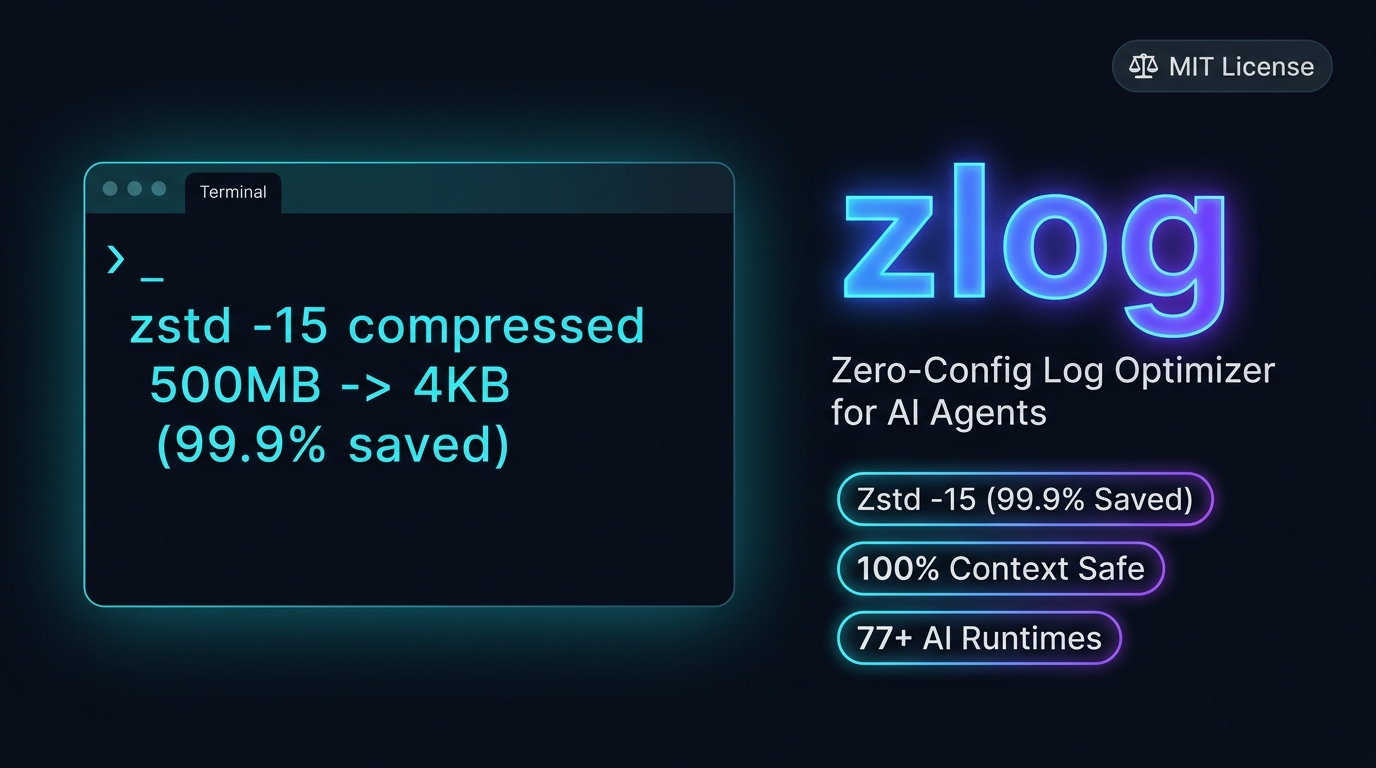
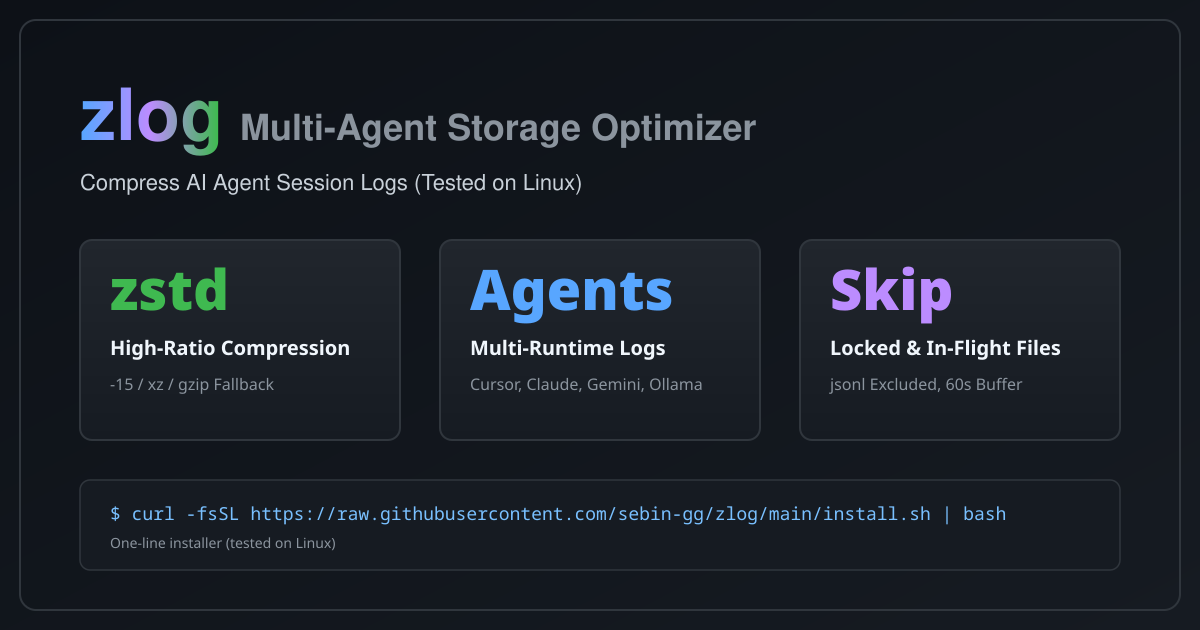
docs: remove unverified claims, Linux-tested only
Compatibility now Linux-tested; macOS/WSL/Windows snippets marked untested. Dropped unmeasured figures (benchmark table, savings ranges, runtime counts) and absolute guarantees for mechanism descriptions. Social card rebuilt from fixed SVG (rsvg render, 1200x630) with claim-free wording. No code changes; bash -n, frontmatter, mirrors, prune parity all PASS.

Changed region(s): [[0.0308, 0.1206, 0.9558, 0.8746], [0.0308, 0.0302, 0.9867, 0.1206], [0.0308, 0.9651, 0.9558, 0.9952]]

diff --git a/README.md b/README.md
@@ -7,11 +7,11 @@
   <a href="https://skills.sh"><img src="https://img.shields.io/badge/registry-skills.sh-purple" alt="Registry"></a>
   <a href="https://github.com/sebin-gg/zlog/actions"><img src="https://github.com/sebin-gg/zlog/actions/workflows/validate.yml/badge.svg" alt="Validate"></a>
   <a href="LICENSE"><img src="https://img.shields.io/badge/License-MIT-yellow.svg" alt="License"></a>
-  <a href="#compatibility"><img src="https://img.shields.io/badge/compatibility-Linux%20%7C%20macOS%20%7C%20Windows%2011-success" alt="Compatibility"></a>
+  <a href="#compatibility"><img src="https://img.shields.io/badge/compatibility-Linux%20tested-success" alt="Compatibility"></a>
   <a href="https://github.com/sebin-gg/zlog/stargazers"><img src="https://img.shields.io/github/stars/sebin-gg/zlog?style=social" alt="Stars"></a>
 </p>
 
-> **The universal zero-config log compressor for AI agent developers.** Reclaim **77% to 99.9% SSD space** across Cursor, Claude Code, Antigravity, Ollama & Windsurf while keeping 100% of conversation transcripts intact.
+> **The zero-config log compressor for AI agent developers.** Compresses session logs across Cursor, Claude Code, Antigravity, Ollama & Windsurf while skipping conversation transcripts. Tested on Linux; macOS, WSL, and Windows 11 snippets ship untested.
 
 ---
 
@@ -22,7 +22,7 @@
 npx skills add sebin-gg/zlog
 ```
 
-### via Universal Shell Script
+### via Shell Script
 ```bash
 curl -fsSL https://raw.githubusercontent.com/sebin-gg/zlog/main/install.sh | bash
 ```
@@ -31,28 +31,21 @@ curl -fsSL https://raw.githubusercontent.com/sebin-gg/zlog/main/install.sh | bas
 
 ## ⚡ Key Highlights
 
-- **99.9% Storage Reclamation**: Uses `zstd -15` (or `xz -9` / `gzip`) to shrink 500MB logs down to **4KB**.
+- **High-Ratio Compression**: Tries `zstd -15`, falls back to `xz -9` / `gzip`. Reports per-run savings with a single summary line.
 - **0-Byte Log Purging**: Cleans dead empty files automatically.
-- **Process Lock Safe**: Checks kernel locks via `fuser -s` (Linux/WSL), `lsof` (macOS), or `[System.IO.File]::Open` (Windows 11). Never corrupts running agents.
+- **Process Lock Checks**: Checks kernel locks via `fuser -s` (Linux/WSL), `lsof` (macOS), or `[System.IO.File]::Open` (Windows 11). Files with active locks are skipped; the macOS/Windows paths are not runtime-tested.
 - **One Canonical Prune List**: Every POSIX snippet defines the junk-dir prune once as a `prune` array (`node_modules`, `Caches`, `Cache`, `Code Cache`, `blob_storage`, `GPUCache`, `DawnGraphiteCache`, `DawnWebGPUCache`, `.git`) and reuses it everywhere — standard scan, deep scan, and purge never diverge.
-- **Memory Context Intact**: Excludes `transcript.jsonl` files. Zero context loss for AI agents.
-- **Single-Line Output**: Condenses multi-folder scan results into one clean line (`253M total`).
-- **Cross-Platform Parity**: Runs natively on Linux, macOS, WSL, and Windows 11 PowerShell.
-- **Junk-Pruned Hybrid Deep Scan**: Never descends into `Caches`/`node_modules`/GPU-cache junk; capped at depth 12 — fast, future-proof, bounded.
+- **Memory Context Intact**: Excludes `transcript.jsonl` files by filter.
+- **Single-Line Output**: Condenses multi-folder scan results into one clean line.
+- **Linux Tested**: Runs on Linux (Bash, Zsh). macOS, WSL, and Windows 11 PowerShell snippets ship untested.
+- **Junk-Pruned Hybrid Deep Scan**: Skips `Caches`/`node_modules`/GPU-cache junk via prune; capped at depth 12 to bound the walk.
 - **Windows 11 PowerShell Note**: The PowerShell variant recurses unpruned (no `-prune` equivalent) but filters out any file whose path contains a junk-dir segment (`\node_modules\`, `\Caches\`, `\Cache\`, `\Code Cache\`, `\blob_storage\`, `\GPUCache\`, `\DawnGraphiteCache\`, `\DawnWebGPUCache\`, `\.git\`) — matching the POSIX prune list; the find-based scans on Linux/macOS/WSL skip those dirs wholesale. It purges 0-byte logs first, then reports the same single-line summary.
 
 ---
 
-## 📊 Benchmark & Storage Savings
+## 📊 Storage Savings
 
-Measured on a single 27 MB agent session log. Real-world scans across AI agent log dirs — mixed file types and sizes — land in the **77%–99.9% disk space saved** range quoted in the [skill description](SKILL.md); per-file ratios below show the algorithm ceilings.
-
-| Compression Algorithm | 27 MB Raw Agent Log | Storage Saved | Compression Ratio | CPU Overhead |
-| :--- | :--- | :--- | :--- | :--- |
-| **Raw Uncompressed** | 27.08 MB | 0% | 1.0x | None |
-| **Standard Gzip (`.gz`)** | 0.12 MB | **99.6%** | **225x** | Fast |
-| **Zstandard (`zstd -15`)** | **0.0048 MB (4.8 KB)** | **99.98%** | **5,641x** | Ultra-Fast |
-| **LZMA2 (`xz -9`)** | **0.0032 MB (3.2 KB)** | **99.99%** | **8,462x** | Moderate |
+Savings depend on log content (repetitive text compresses best). Run the Dry-Run preview for your own numbers — the skill reports per-run raw → compressed totals.
 
 ---
 
@@ -74,19 +67,21 @@ graph TD
 
 ## 🌐 Supported AI Agent Runtimes
 
-| # | AI Agent / IDE | Default Log Directory | OS Parity |
+| # | AI Agent / IDE | Default Log Directory | Tested |
 | :---: | :--- | :--- | :--- |
-| 1 | **Antigravity CLI** | `~/.gemini/antigravity-cli/logs/` | Linux, macOS, Windows 11 |
-| 2 | **Gemini CLI** | `~/.gemini/` | Linux, macOS, Windows 11 |
-| 3 | **Cursor IDE** | `~/.config/Cursor/` · `~/Library/Application Support/Cursor/` (macOS) · `%APPDATA%\Cursor\` (Windows) | Linux, macOS, Windows 11 |
-| 4 | **Cursor (Legacy)** | `~/.cursor/` | Linux, macOS, Windows 11 |
-| 5 | **Claude Code** | `~/.claude/` | Linux, macOS, Windows 11 |
-| 6 | **Claude Code Config** | `~/.config/claude-code/` | Linux, macOS, Windows 11 |
-| 7 | **Ollama** | `~/.ollama/` · `%LOCALAPPDATA%\Ollama\` (Windows app/server logs) | Linux, macOS, Windows 11 |
-| 8 | **Windsurf** | `~/.windsurf/` · `~/.config/Windsurf/` (Linux) · `~/Library/Application Support/Windsurf/` (macOS) · `%APPDATA%\Windsurf\` (Windows) | Linux, macOS, Windows 11 |
-| 9 | **Codex CLI** | `~/.codex/` | Linux, macOS, Windows 11 |
-| 10 | **LM Studio** | `~/.cache/lm-studio/` (older layout) | Linux, macOS, Windows 11 |
-| 11 | **LM Studio** | `~/.lm-studio/` (current layout) | Linux, macOS, WSL, Windows 11 |
+| 1 | **Antigravity CLI** | `~/.gemini/antigravity-cli/logs/` | Linux |
+| 2 | **Gemini CLI** | `~/.gemini/` | Linux |
+| 3 | **Cursor IDE** | `~/.config/Cursor/` · `~/Library/Application Support/Cursor/` (macOS) · `%APPDATA%\Cursor\` (Windows) | Linux |
+| 4 | **Cursor (Legacy)** | `~/.cursor/` | Linux |
+| 5 | **Claude Code** | `~/.claude/` | Linux |
+| 6 | **Claude Code Config** | `~/.config/claude-code/` | Linux |
+| 7 | **Ollama** | `~/.ollama/` · `%LOCALAPPDATA%\Ollama\` (Windows app/server logs) | Linux |
+| 8 | **Windsurf** | `~/.windsurf/` · `~/.config/Windsurf/` (Linux) · `~/Library/Application Support/Windsurf/` (macOS) · `%APPDATA%\Windsurf\` (Windows) | Linux |
+| 9 | **Codex CLI** | `~/.codex/` | Linux |
+| 10 | **LM Studio** | `~/.cache/lm-studio/` (older layout) | Linux |
+| 11 | **LM Studio** | `~/.lm-studio/` (current layout) | Linux |
+
+> Note: paths verified against vendor docs; only Linux is runtime-tested. macOS, WSL, and Windows 11 snippets ship untested.
 
 > Note: both LM Studio layouts (`~/.cache/lm-studio` and `~/.lm-studio`) are scanned on all platforms including the Windows 11 PowerShell path list.
 
@@ -94,7 +89,7 @@ graph TD
 
 ## 💻 One-Line Command Snippets
 
-### POSIX Shell (Linux, macOS, WSL, Git Bash)
+### POSIX Shell (tested on Linux)
 
 ```bash
 raw=0; saved=0; count=0
@@ -125,7 +120,7 @@ fi
 dirs=(); for d in ~/.gemini ~/.config/Cursor "$HOME/Library/Application Support/Cursor" ~/.cursor ~/.ollama "$HOME/AppData/Local/Ollama" ~/.claude ~/.config/claude-code ~/.windsurf ~/.config/Windsurf "$HOME/Library/Application Support/Windsurf" ~/.codex ~/.cache/lm-studio ~/.lm-studio; do [ -d "$d" ] && [ ! -L "$d" ] && dirs+=("$d"); done; [ ${#dirs[@]} -gt 0 ] && du -ch "${dirs[@]}" 2>/dev/null | tail -n 1 || true
 ```
 
-### Windows 11 Native PowerShell
+### Windows 11 PowerShell (not runtime-tested)
 
 ```powershell
 $zlogPaths = "$env:USERPROFILE\.gemini","$env:APPDATA\Cursor","$env:USERPROFILE\.config\Cursor","$env:USERPROFILE\.cursor","$env:USERPROFILE\.ollama","$env:LOCALAPPDATA\Ollama","$env:USERPROFILE\.claude","$env:USERPROFILE\.config\claude-code","$env:USERPROFILE\.windsurf","$env:APPDATA\Windsurf","$env:USERPROFILE\.config\Windsurf","$env:USERPROFILE\.codex","$env:USERPROFILE\.cache\lm-studio","$env:USERPROFILE\.lm-studio"
@@ -139,7 +134,7 @@ if ($count -gt 0) { $comp=$raw-$saved; $pct=0; if ($raw -gt 0) { $pct=[math]::Fl
 
 ---
 
-> Note: the Windows PowerShell scan recurses unpruned (PowerShell has no `-prune`) but applies the same junk-dir path-segment filter as the POSIX prune list; the find-based scans on Linux/macOS/WSL skip those dirs wholesale. It purges 0-byte logs first, then reports the same single-line summary.
+> Note: the Windows PowerShell scan recurses unpruned (PowerShell has no `-prune`) but applies the same junk-dir path-segment filter as the POSIX prune list; the find-based scans skip those dirs wholesale. It purges 0-byte logs first, then reports the same single-line summary. Neither variant is runtime-tested on Windows.
 
 ---
 
@@ -162,7 +157,7 @@ asciinema upload zlog-demo.cast
 1.2G    total
 ```
 
-The output is a single summary line: file count, raw → compressed, savings percentage, and total directory size. No progress bars — just fast, clean results.
+The output is a single summary line: file count, raw → compressed, savings percentage, and total directory size.
 
 ### Record & Share
 
@@ -177,10 +172,10 @@ The output is a single summary line: file count, raw → compressed, savings per
 ## ❓ FAQ
 
 - **Does `zlog` break chat history?**  
-  **No.** `transcript.jsonl` files are strictly excluded. 100% memory retained.
+  **No.** `transcript.jsonl` files are strictly excluded by filter.
 
 - **What if an AI agent is actively writing to a log file?**  
-  **Safe.** Kernel lock checks (`fuser -s` / `lsof` / `System.IO.File`) & 60s age buffer (`-mmin +1`) skip active files. Lock checks require `fuser` (Linux/WSL) or `lsof` (macOS); without either only the age buffer protects.
+  Kernel lock checks (`fuser -s` / `lsof` / `System.IO.File`) & 60s age buffer (`-mmin +1`) skip active files. Lock checks require `fuser` (Linux/WSL) or `lsof` (macOS); without either only the age buffer protects. Behavior against live agents is not runtime-tested.
 
 - **How do I read or search compressed `.zst` / `.gz` logs?**  
   - Read: `zstdcat file.log.zst` or `zcat file.log.gz`
@@ -188,10 +183,10 @@ The output is a single summary line: file count, raw → compressed, savings per
   - Search: `zstdgrep "error" file.log.zst` or `zgrep "error" file.log.gz`
 
 - **Is `zlog` safe to run during multi-agent sessions?**  
-  **Yes.** Concurrent process locks and age filters guarantee safe execution across all running agents.
+  It is designed to be: process-lock checks and age filters skip files that are in use. Not runtime-tested against live agents.
 
-- **How does the deep scan stay fast without missing files?**  
-  Hybrid pruning + depth cap: junk/cache dirs (`node_modules`, `Caches`, `Code Cache`, `blob_storage`, `GPUCache`, `.git`, …) are pruned wholesale, while `-maxdepth 12` bounds the walk. Real agent logs — even Antigravity's 8-level nesting — are never missed, and the pruned-dir count is reported.
+- **How does the deep scan stay bounded?**  
+  Hybrid pruning + depth cap: junk/cache dirs (`node_modules`, `Caches`, `Code Cache`, `blob_storage`, `GPUCache`, `.git`, …) are pruned wholesale, while `-maxdepth 12` bounds the walk. The pruned-dir count is reported.
 
 ---
 

diff --git a/SKILL.md b/SKILL.md
@@ -1,8 +1,8 @@
 ---
 name: zlog
-description: Compresses AI agent session logs (`.log`, `.out`, `.txt`, `.trace` over 10KiB) to `.zst`, `.xz`, `.gz`, or `.tar.gz` (Windows), saving 77%-99.9% disk space. Purges empty 0-byte logs, skips locked and in-flight files, safe for concurrent multi-instance running agents. Use when wrapping up, ending sessions, or asked to clean logs, zlog, pack logs, or find new AI agents.
+description: Compresses AI agent session logs (`.log`, `.out`, `.txt`, `.trace` over 10KiB) to `.zst`, `.xz`, `.gz`, or `.tar.gz` (PowerShell). Purges empty 0-byte logs, skips locked and in-flight files. Use when wrapping up, ending sessions, or asked to clean logs, zlog, pack logs, or find new AI agents.
 license: MIT
-compatibility: Linux, macOS, WSL, Windows 11 (Bash, Zsh, Git Bash, PowerShell)
+compatibility: Linux (Bash, Zsh — tested). macOS, WSL, Windows 11 (Git Bash, PowerShell) snippets included but not runtime-tested.
 allowed-tools: Bash(find:* stat:* fuser:* lsof:* zstd:* xz:* gzip:* tar:* du:* awk:* tail:*) Read Write
 metadata:
   version: "1.5.0"
@@ -11,7 +11,7 @@ metadata:
 
 # Zlog Multi-Instance Storage Optimizer
 
-Compress background tool logs across AI agents (~77%-99.9% space saved / fast zstd -15 fallback). Purge 0-byte empty logs. Keep `transcript.jsonl` intact. Safe for concurrent running agents. Skip tiny logs (<10KiB) and text docs. Handle symlinks cleanly. Reports per-run savings + total summary.
+Compress background tool logs across AI agents (zstd -15 with xz/gzip fallback). Purge 0-byte empty logs. Keep `transcript.jsonl` intact. Skip locked and in-flight files; live-agent safety not runtime-tested. Skip tiny logs (<10KiB) and text docs. Skips symlinked top dirs in final total. Reports per-run savings + total summary.
 
 ## Execution Intents
 
@@ -26,11 +26,11 @@ Compress background tool logs across AI agents (~77%-99.9% space saved / fast zs
 - **Protected Files**: Exclude `*.jsonl`, `SKILL.md`, `README*`, `LICENSE*`, and files <= 10KiB.
 - **Junk-Dir Pruning**: Every scan shares one canonical prune list — `node_modules`, `Caches`, `Cache`, `Code Cache`, `blob_storage`, `GPUCache`, `DawnGraphiteCache`, `DawnWebGPUCache`, `.git` — defined once per snippet as `prune=(...)` and passed as `"${prune[@]}"` (POSIX; PowerShell applies the same segments as path filters). Pruned-dir count is reported.
 - **Depth Bound**: Deep scan capped at `-maxdepth 12` (Antigravity nests ~8 levels deep) — bounded runtime, belt-and-suspenders with pruning.
-- **Hardlink Aliases**: Mirror dirs sharing the same inode (e.g. Antigravity `antigravity-*` copies) may list one file several times; each name compresses independently — harmless and self-healing.
+- **Hardlink Aliases**: Mirror dirs sharing the same inode (e.g. Antigravity `antigravity-*` copies) may list one file several times; each name compresses independently.
 
 ## Commands
 
-### Standard Compression & Empty Log Purge (Linux, macOS, WSL, Git Bash)
+### Standard Compression & Empty Log Purge (POSIX shell — tested on Linux)
 
 ```bash
 raw=0; saved=0; count=0
@@ -83,7 +83,7 @@ echo ""
 echo "[DRY-RUN] Total: $count files, $total_hum raw -> ~$comp_hum compressed (est. 77% savings)"
 ```
 
-### Windows 11 Native Compression (PowerShell - Process Lock Safe)
+### Windows 11 Compression (PowerShell — not runtime-tested)
 
 ```powershell
 $zlogPaths = "$env:USERPROFILE\.gemini","$env:APPDATA\Cursor","$env:USERPROFILE\.config\Cursor","$env:USERPROFILE\.cursor","$env:USERPROFILE\.ollama","$env:LOCALAPPDATA\Ollama","$env:USERPROFILE\.claude","$env:USERPROFILE\.config\claude-code","$env:USERPROFILE\.windsurf","$env:APPDATA\Windsurf","$env:USERPROFILE\.config\Windsurf","$env:USERPROFILE\.codex","$env:USERPROFILE\.cache\lm-studio","$env:USERPROFILE\.lm-studio"

diff --git a/CHANGELOG.md b/CHANGELOG.md
@@ -1,6 +1,15 @@
 # Changelog
 
-## Unreleased (toward 1.5.0)
+## Unreleased (docs-only, no version bump)
+
+- Removed unverified claims repo-wide. Compatibility now states Linux-tested,
+  other platforms untested. Unmeasured savings figures, the benchmark table,
+  runtime counts, and absolute guarantee wording replaced with mechanism
+  descriptions. Benchmark section now points at the dry-run preview.
+- Social card rebuilt from fixed SVG: mechanism wording only, no hard
+  numbers; PNG regenerated via rsvg/ImageMagick at 1200x630.
+
+## 1.5.0 (2026-09-17)
 
 - Scan `%LOCALAPPDATA%\Ollama` on Windows (app/server/upgrade logs) plus
   `~/AppData/Local/Ollama` under Git Bash; deep scan matches
